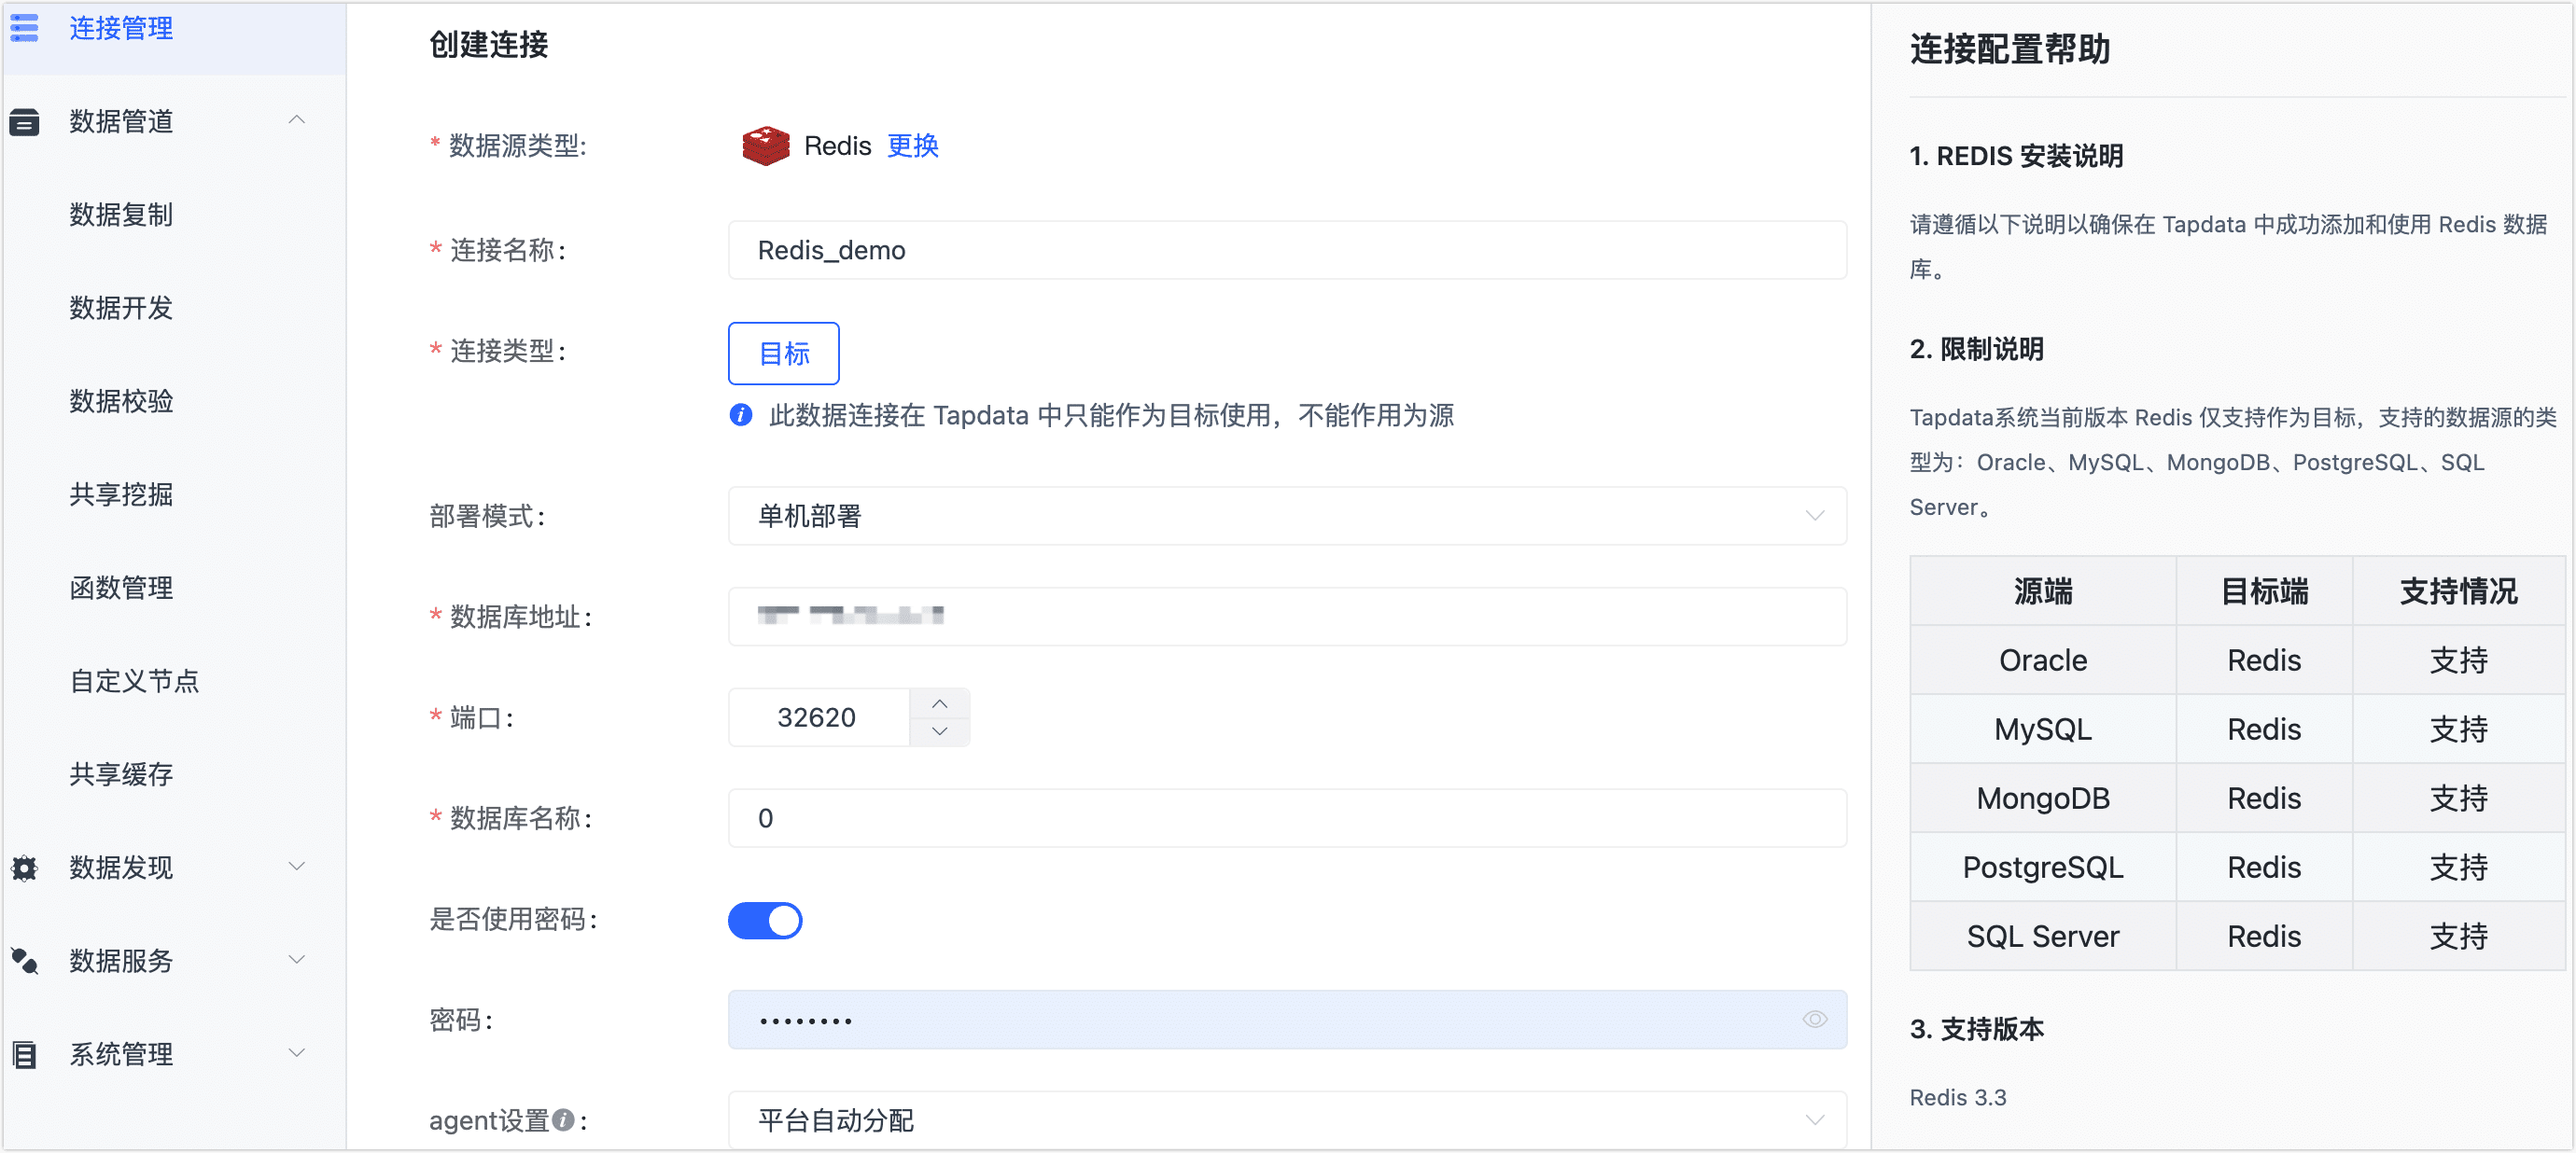
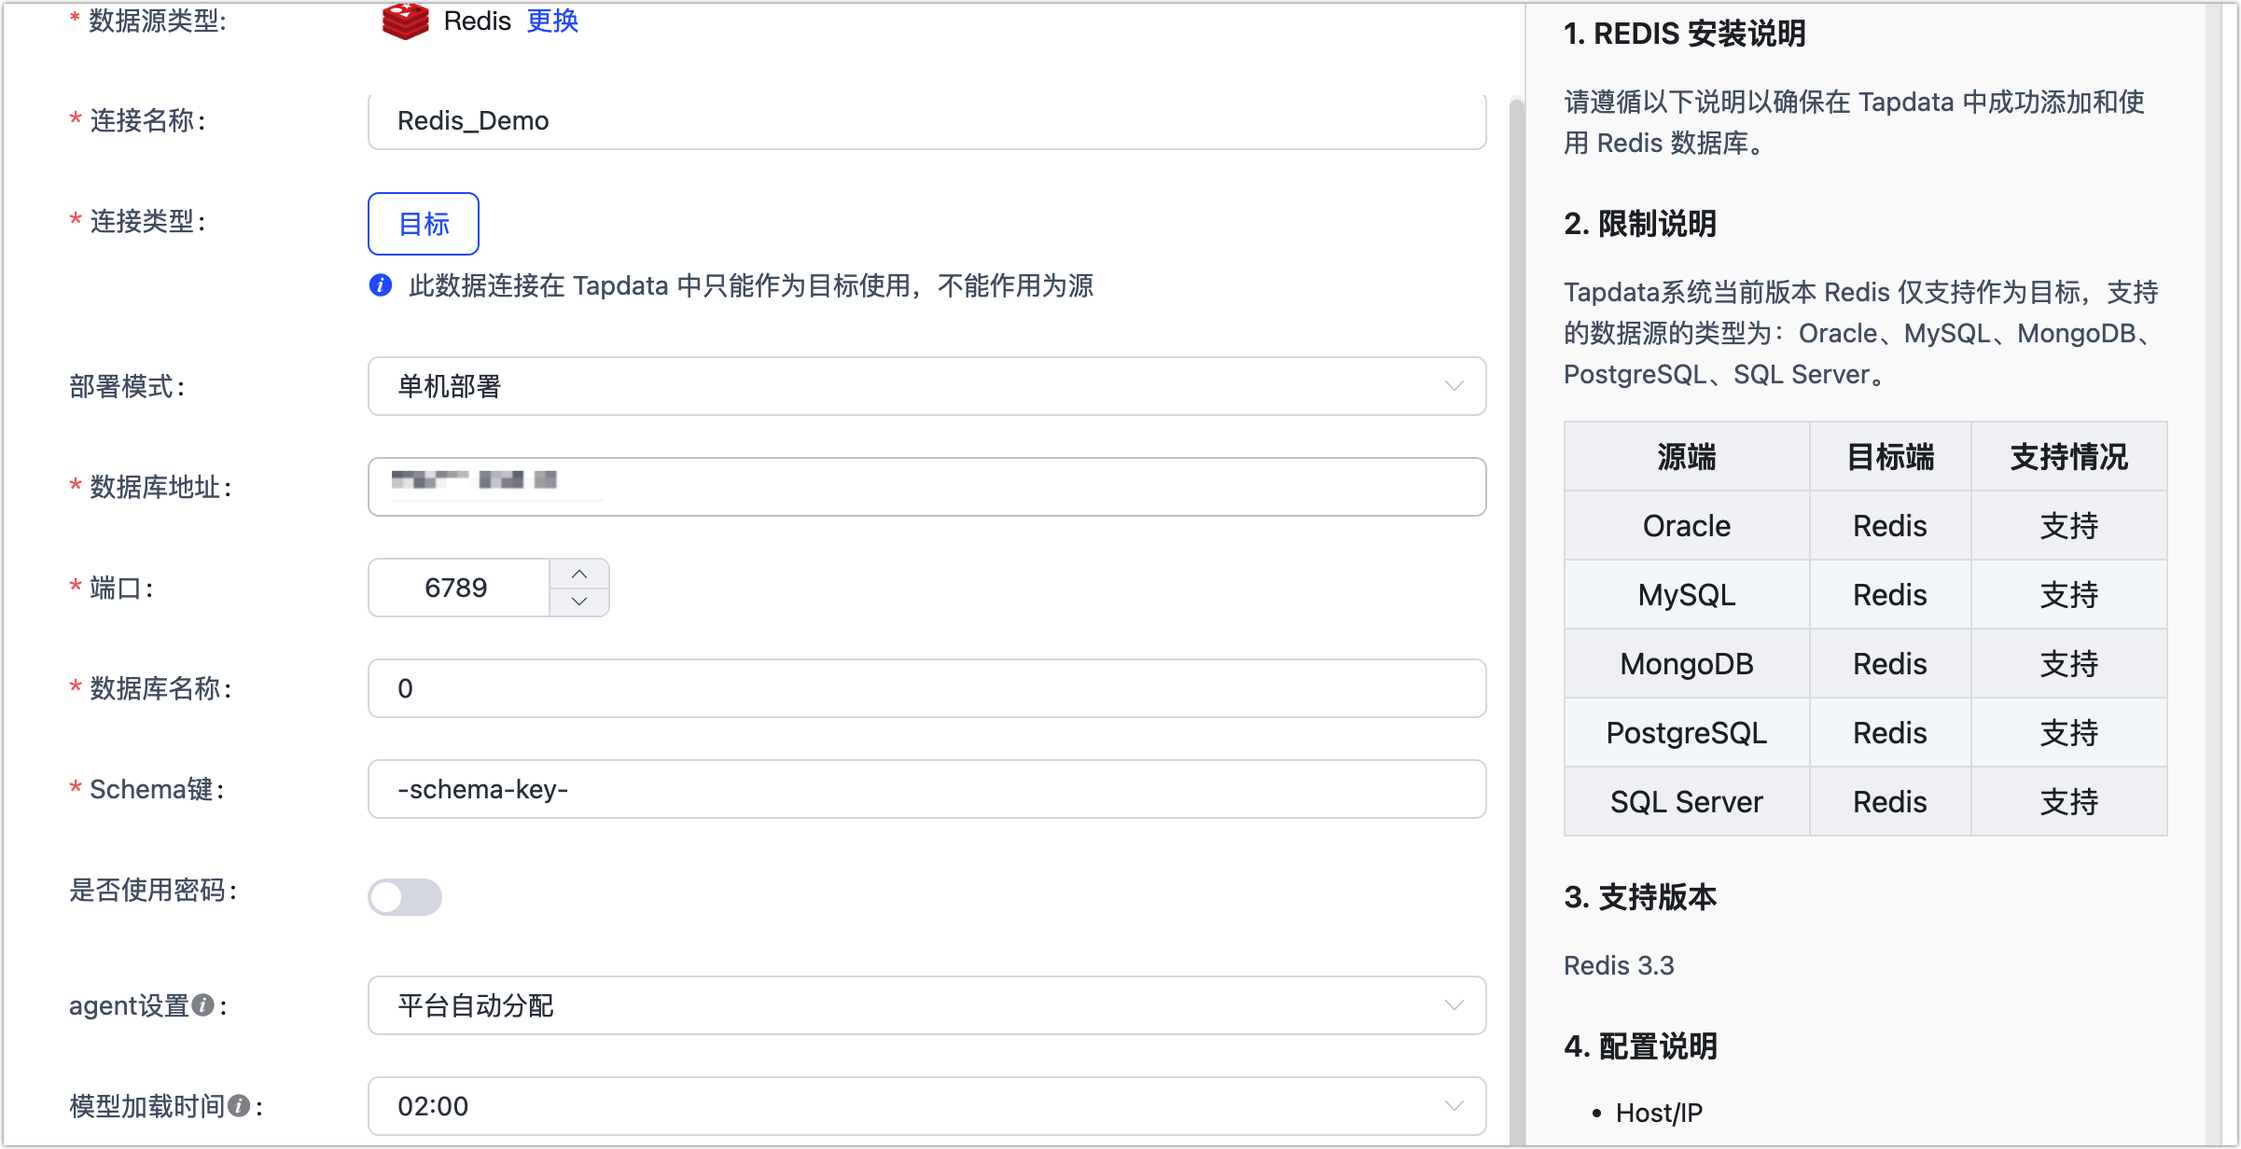
Part 5

diff --git a/docs/enterprise/release-notes.md b/docs/enterprise/release-notes.md
@@ -10,7 +10,7 @@
 - 数据平台模式下，支持[删除**平台加工层**的表](user-guide/data-console/daas-mode/daas-mode-dashboard#release320-daas)
 - 在配置任务的目标节点时，支持[按照系数来调整字段长度](user-guide/data-pipeline/copy-data/create-task#release320-col-length)，避免因字符编码不同等原因引发的数据写入失败问题
 - [数据校验](user-guide/data-pipeline/verify-data)功能支持 SelectDB 数据源
-- Redis 作为目标节点场景下，存储为 List 或 Hash 格式，且选择为单键方式时，[支持将源表 Schema 写入一个 Hash 键](best-practice/mysql-to-redis#release320-contain-table-head)（名称为 `-schema-key-`），其值用来存放源表的表名和列名信息。
+- Redis 作为目标节点场景下，存储为 List 或 Hash 格式，且选择为单键方式时，[支持将源表 Schema 写入一个 Hash 键](best-practice/mysql-to-redis#release320-contain-table-head)（默认名称为 `-schema-key-`），其值用来存放源表的表名和列名信息。
 - 新增[**类型过滤**](user-guide/data-pipeline/data-development/process-node#release320-type-filter)处理节点，可将快速过滤同类型的列，被过滤的字段将不会传递至下个节点
 - [**字段编辑**](user-guide/data-pipeline/copy-data/process-node#column-modification)处理节点，支持蛇形命名和驼峰命名之间的转换
 - 数据复制任务、数据转换任务、数据面板、换成创建时支持[显示表的描述信息](user-guide/data-pipeline/copy-data/create-task#310-table-model)，默认来源为表的注释信息

diff --git a/docs/enterprise/user-guide/connect-database/beta/connect-redis.md b/docs/enterprise/user-guide/connect-database/beta/connect-redis.md
@@ -26,6 +26,7 @@ Redis 2.8 ~ 6.0
    * **数据库地址**：填写数据库的连接地址。
    * **端口**：填写数据库的服务端口。
    * **数据库名称**：填写数据库名称，例如 **0**。
+   * **Schema 键**：存储为 List 或 Hash 格式，且选择为单键方式时，[支持将源表 Schema 写入一个 Hash 键](../../../best-practice/mysql-to-redis#release320-contain-table-head)（默认名称为 `-schema-key-`），其值用来存放源表的表名和列名信息。
    * **是否使用密码**：如 Redis 启用了密码验证，您需要打开该开关并填写数据库密码。
    * **agent 设置**：默认为**平台自动分配**，您也可以手动指定。
 
